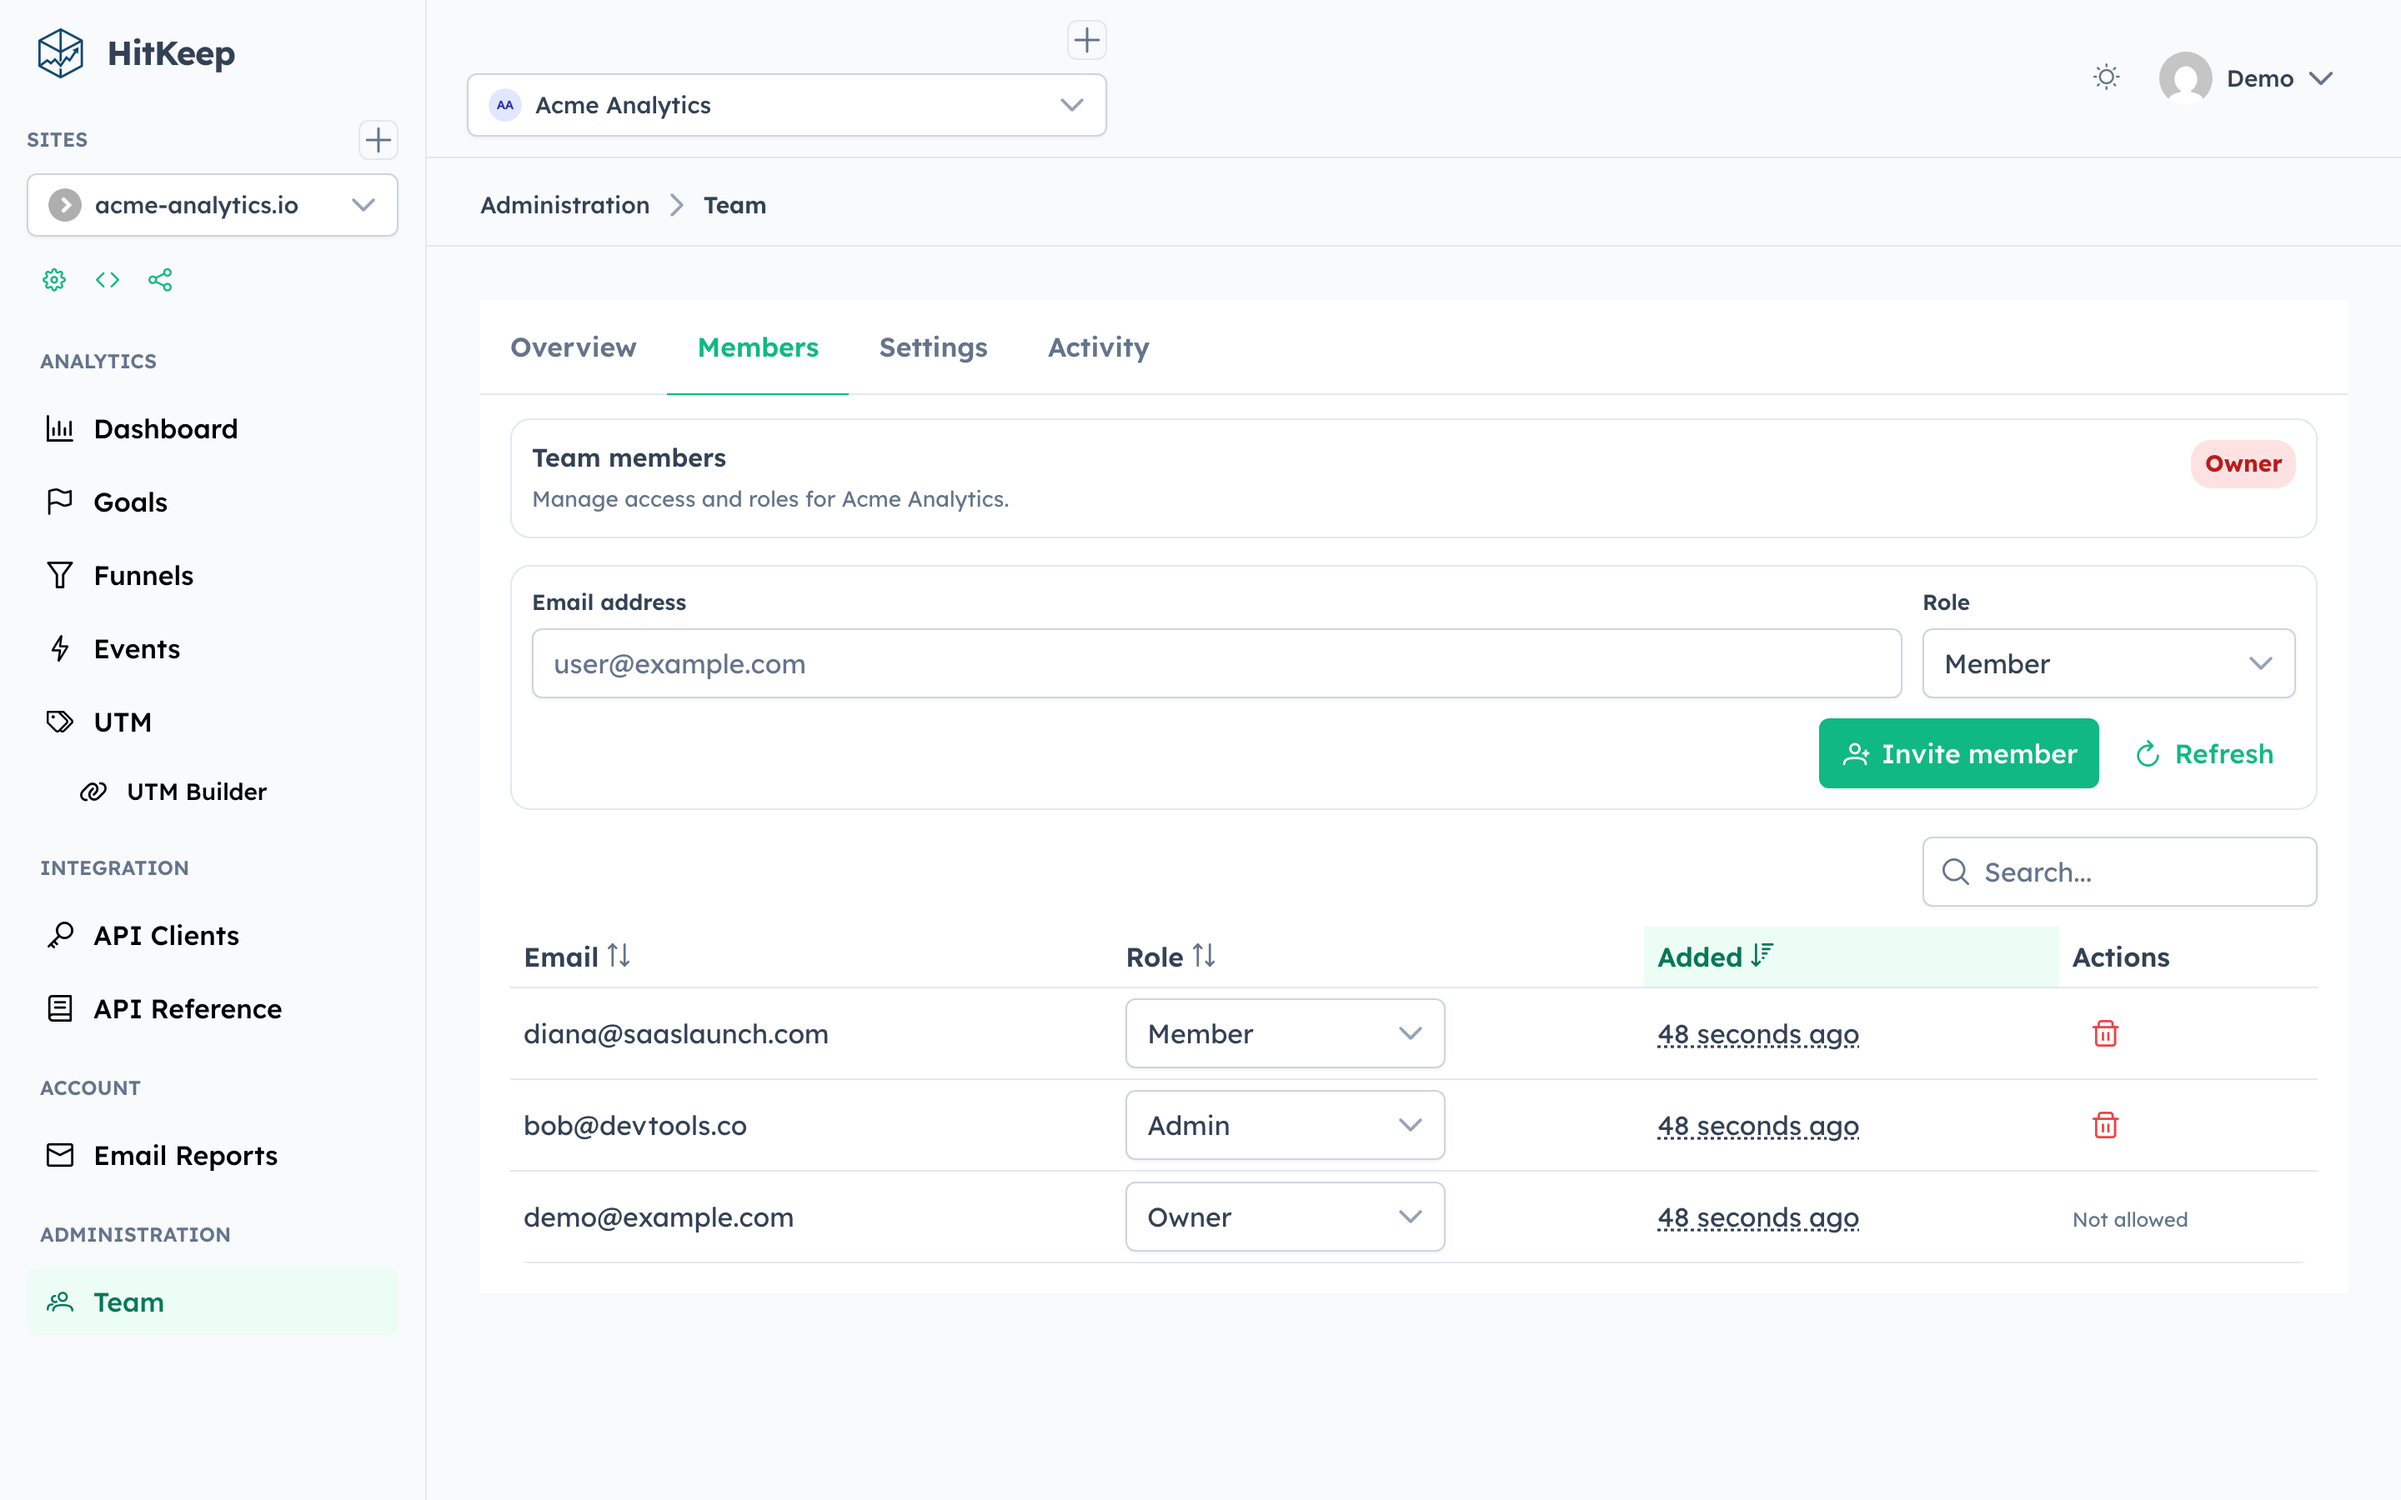
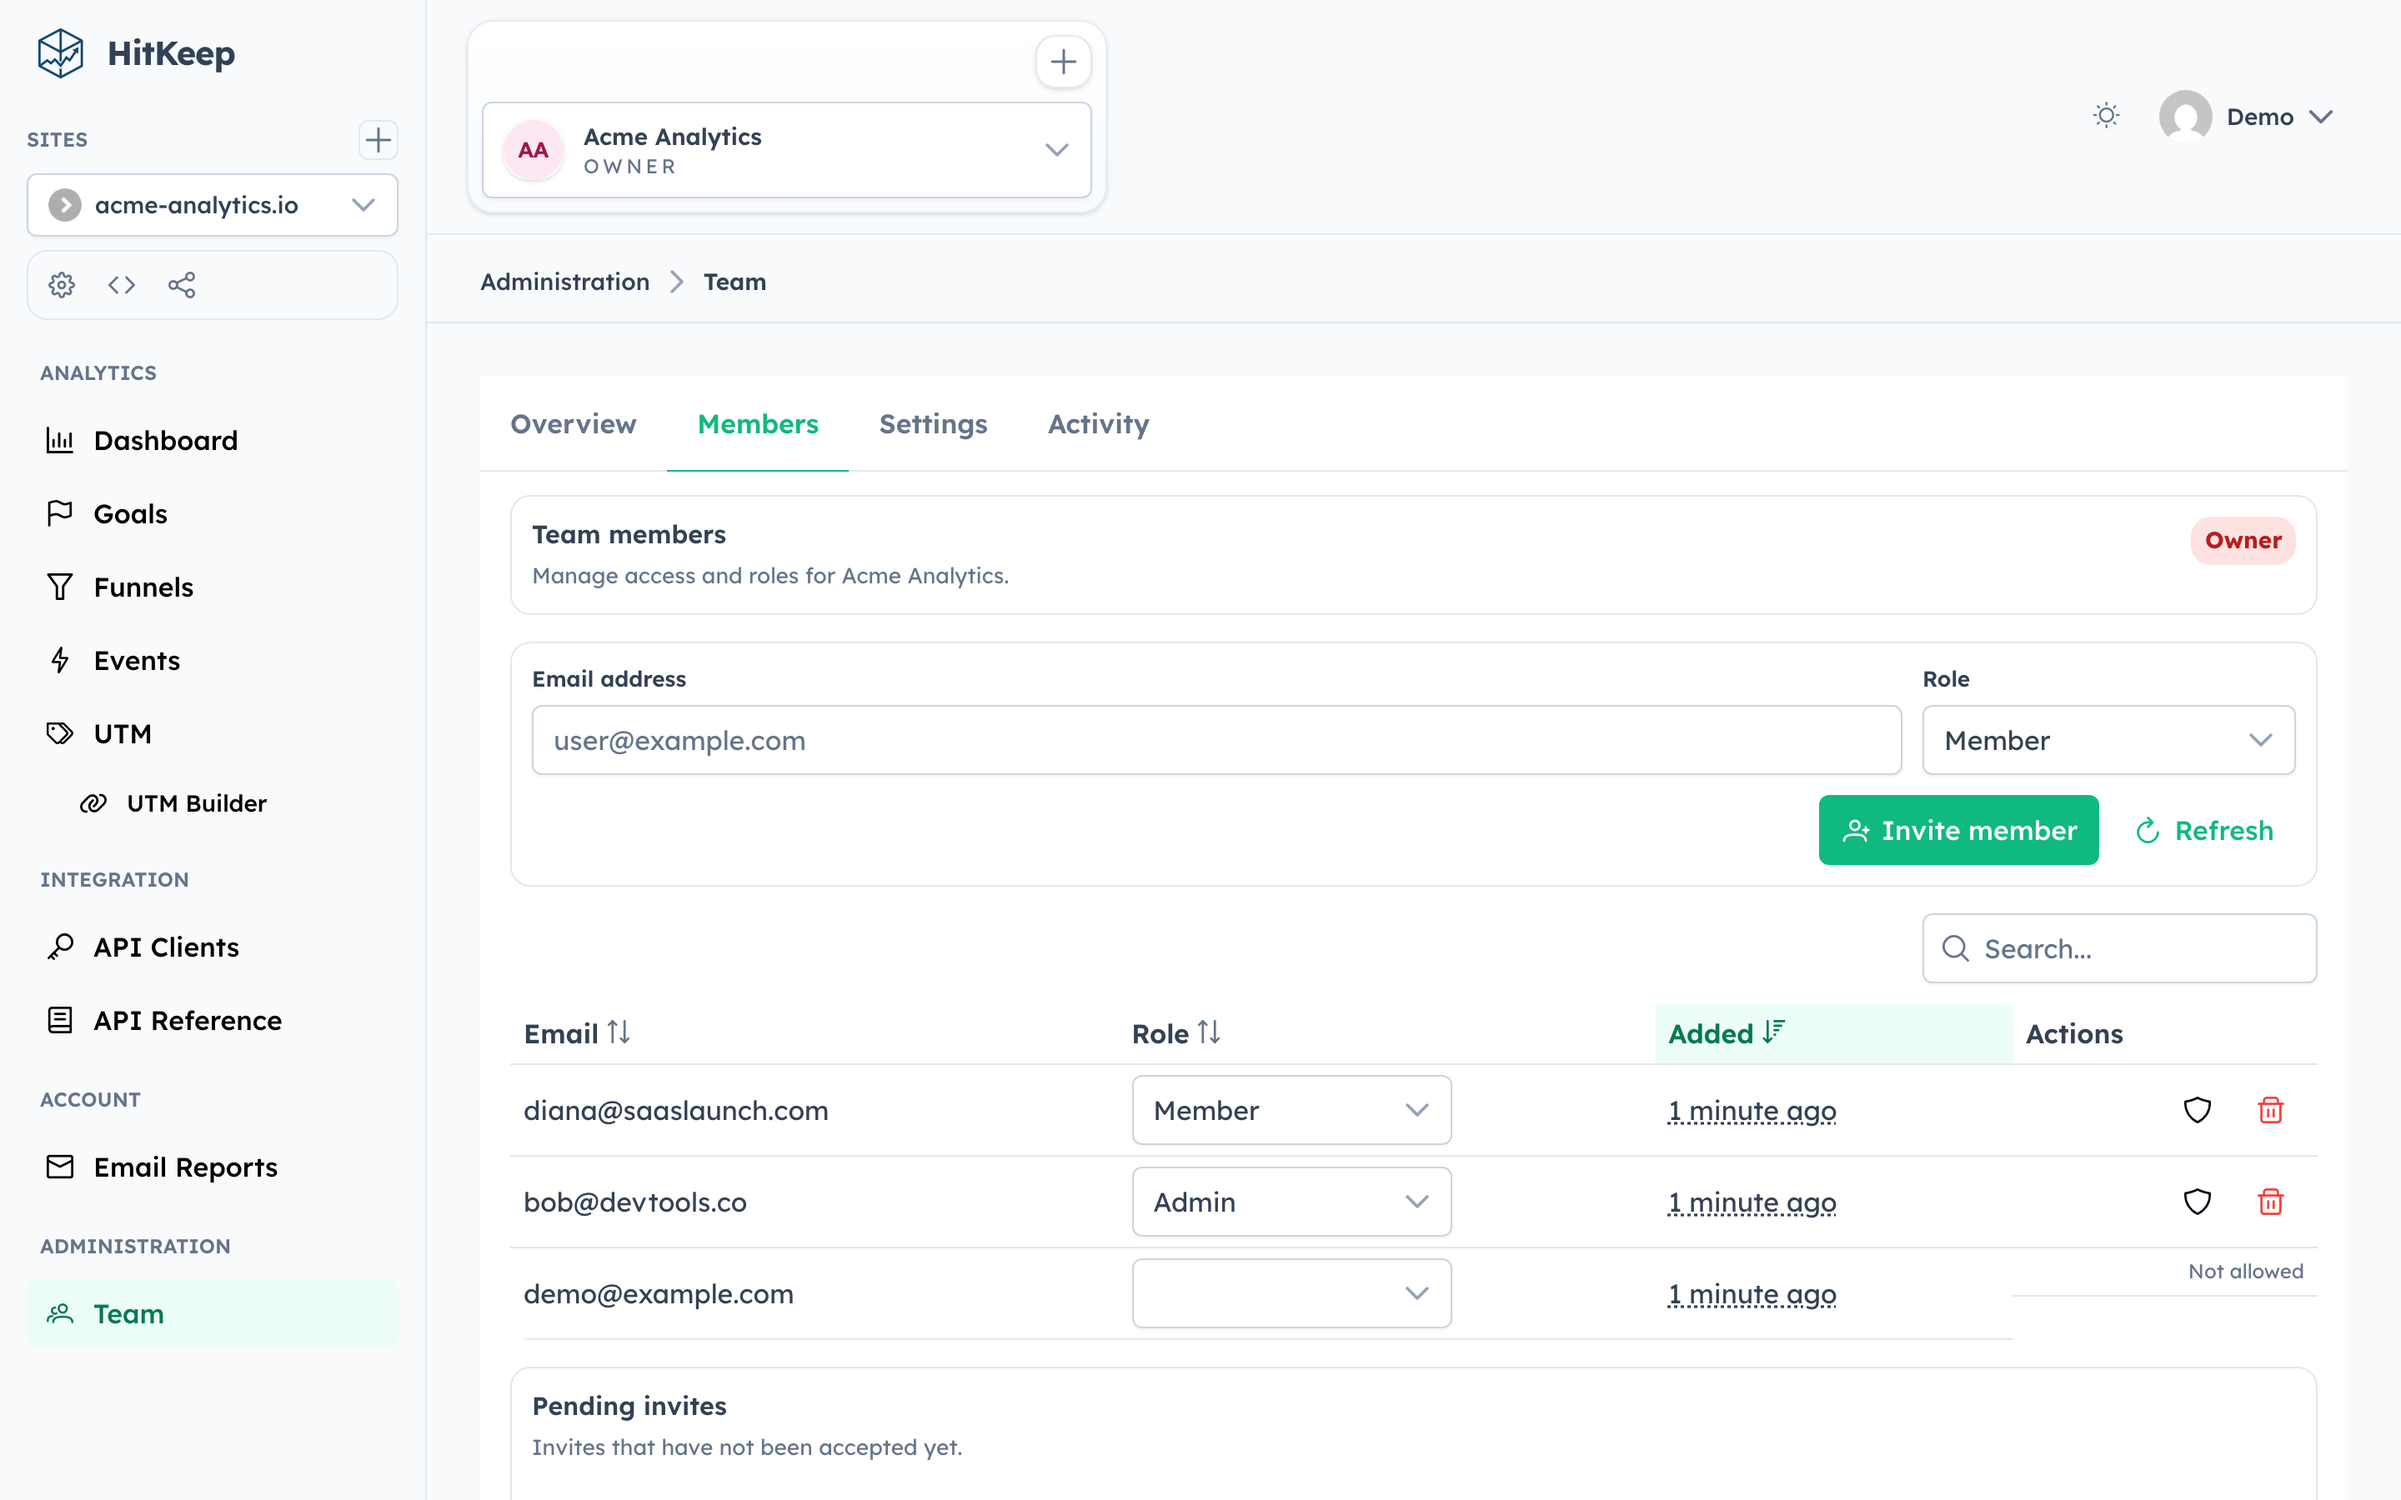
docs(readme): refresh team lifecycle screenshots

diff --git a/README.md b/README.md
@@ -75,6 +75,9 @@ Unlike other solutions that require you to manage a complex stack (PostgreSQL, R
 ### Teams — Create Team
 ![HitKeep create team dialog](./.github/assets/feature-create-team.png)
 
+### Teams — Transfer Site
+![HitKeep site transfer between teams](./.github/assets/feature-site-transfer.png)
+
 ### Teams — Overview
 ![HitKeep team administration overview](./.github/assets/admin-team-overview.png)
 
@@ -111,7 +114,7 @@ Visit **[hitkeep.com](https://hitkeep.com)** for the complete documentation, inc
 - **Embedded DuckDB + NSQ:** Columnar analytics storage with in-process burst buffering.
 - **Privacy-First Tracking:** Cookie-less by default, bot filtering, DNT support, optional `sendBeacon` disable.
 - **Analytics Coverage:** Traffic overview, raw hits, events, goals, funnels, and UTM attribution fields.
-- **Teams & Multitenancy:** Shared control plane plus isolated per-team analytics databases for non-default teams.
+- **Teams & Multitenancy:** Shared control plane plus isolated per-team analytics databases, team invites, ownership transfer, and cross-team site moves.
 - **Security & Auth:** JWT sessions, remember-me tokens, password reset, TOTP MFA, and WebAuthn passkeys.
 - **RBAC & Team Management:** Instance roles and per-site roles with delegated permissions.
 - **API Clients:** Create scoped API tokens for automation and integrations.
